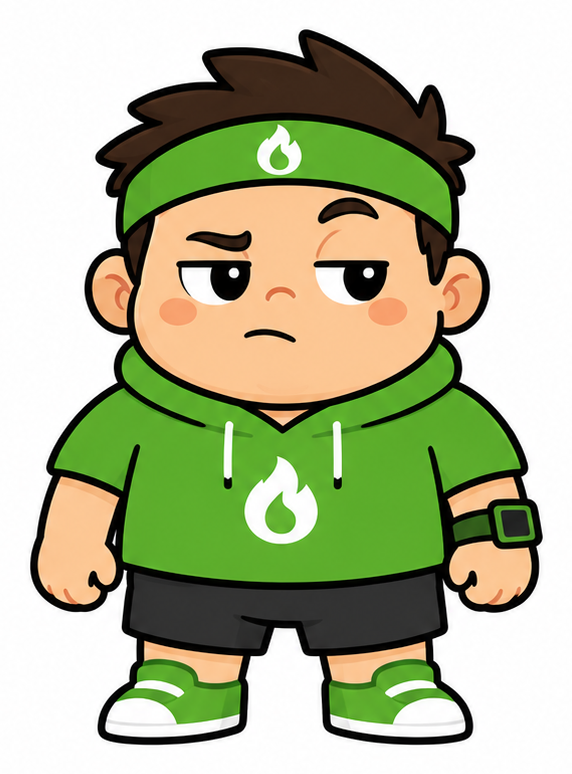
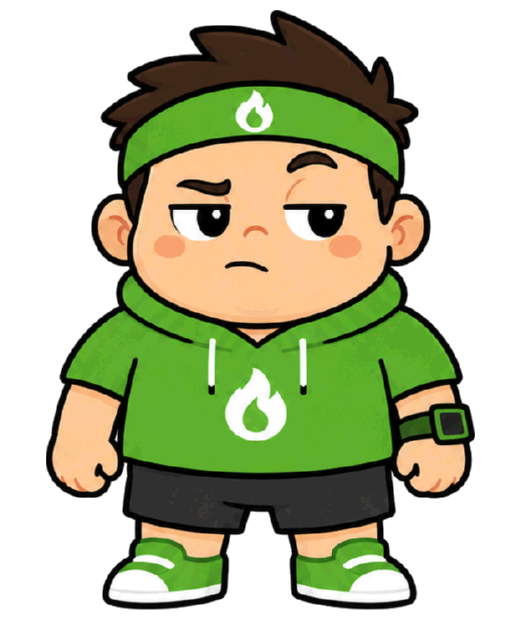
Dá vida ao Caloricio: arte transparente e animação de repouso
Arte (9,8MB -> 1,2MB no total):
- fundo branco removido por flood-fill das bordas, com matte suave pra não
  deixar halo no contorno antialiasado
- marca d'água da IA no canto eliminada (elevando o limiar de fundo chapado)
- fragmento do halter do personagem vizinho removido por análise de
  componentes conectados
- todas normalizadas em 520x620, mesma altura de personagem e pés alinhados,
  então trocar de fantasia não muda mais o tamanho

Animação (camadas de transform aninhadas, uma por movimento):
- respiração e flutuação com períodos fora de fase (3,7s x 3s) pra não ficar
  mecânico, mais uma leve inclinação lateral
- sombra elíptica que encolhe e clareia quando ele sobe
- squash-and-stretch ao trocar de fantasia
- pulinho espontâneo em intervalo aleatório, pausado com a aba oculta
- tudo desligado em prefers-reduced-motion

Changed region(s): [[0.0308, 0.0, 0.9538, 1.0], [0.4308, 0.3677, 0.5231, 0.4597], [0.4923, 0.521, 0.5231, 0.5516]]

diff --git a/style.css b/style.css
@@ -41,31 +41,113 @@ body {
 /* ---------- Mascote ---------- */
 
 .mascote {
-  margin: 0 auto 20px;
-  width: 220px;
+  margin: 0 auto 16px;
+  width: 230px;
   text-align: center;
+}
+
+.mascote-palco {
+  position: relative;
+  /* espaço pra sombra viver abaixo dos pés sem empurrar o layout */
+  padding-bottom: 14px;
 }
 
 .mascote img {
   width: 100%;
   height: auto;
   display: block;
-  background: #ffffff;
-  border-radius: 20px;
-  box-shadow: 0 6px 18px rgba(0, 0, 0, 0.08);
-  padding: 10px;
 }
 
-/* pulinho ao trocar de estado (climax emocional do reveal) */
-@keyframes pulo {
-  0% { transform: translateY(0); }
-  35% { transform: translateY(-10px) rotate(-2deg); }
-  70% { transform: translateY(0) rotate(1deg); }
-  100% { transform: translateY(0); }
+/* --- Vida em repouso ---
+   Períodos propositalmente diferentes (3s x 3,7s) pra respiração e flutuação
+   saírem de fase e o movimento não ficar mecânico. */
+@keyframes flutuar {
+  0%, 100% { transform: translateY(0) rotate(0deg); }
+  25% { transform: translateY(-4px) rotate(-0.7deg); }
+  50% { transform: translateY(-7px) rotate(0deg); }
+  75% { transform: translateY(-4px) rotate(0.7deg); }
 }
 
-.mascote.reagindo img {
-  animation: pulo 0.45s ease;
+@keyframes respirar {
+  0%, 100% { transform: scale(1, 1); }
+  50% { transform: scale(0.985, 1.018); }
+}
+
+@keyframes sombra-viva {
+  0%, 100% { transform: scaleX(1); opacity: 0.17; }
+  50% { transform: scaleX(0.86); opacity: 0.1; }
+}
+
+.mascote-flutua {
+  animation: flutuar 3s ease-in-out infinite;
+  transform-origin: 50% 100%;
+}
+
+/* Pulinho espontâneo em intervalo aleatório (app.js agenda): quebra a sensação
+   de loop mecânico, que é o que mais entrega "isso é só uma imagem girando". */
+@keyframes pulinho-idle {
+  0% { transform: translateY(0) scale(1, 1); }
+  18% { transform: translateY(0) scale(1.07, 0.93); }
+  45% { transform: translateY(-22px) scale(0.95, 1.06); }
+  70% { transform: translateY(0) scale(1.05, 0.95); }
+  85% { transform: translateY(-5px) scale(1, 1); }
+  100% { transform: translateY(0) scale(1, 1); }
+}
+
+.mascote-idle {
+  transform-origin: 50% 100%;
+}
+
+.mascote.pulando .mascote-idle {
+  animation: pulinho-idle 0.85s cubic-bezier(0.3, 1.2, 0.5, 1);
+}
+
+.mascote img {
+  transform-origin: 50% 100%;
+  animation: respirar 3.7s ease-in-out infinite;
+}
+
+.mascote-sombra {
+  position: absolute;
+  left: 50%;
+  bottom: 6px;
+  width: 44%;
+  height: 12px;
+  margin-left: -22%;
+  border-radius: 50%;
+  background: #1f2937;
+  opacity: 0.17;
+  z-index: -1;
+  animation: sombra-viva 3s ease-in-out infinite;
+}
+
+/* --- Reação à troca de estado: agacha, salta e assenta --- */
+@keyframes reagir {
+  0% { transform: scale(1, 1) translateY(0); }
+  22% { transform: scale(1.1, 0.9) translateY(0); }
+  50% { transform: scale(0.93, 1.09) translateY(-13px); }
+  72% { transform: scale(1.04, 0.97) translateY(0); }
+  88% { transform: scale(0.99, 1.01) translateY(-2px); }
+  100% { transform: scale(1, 1) translateY(0); }
+}
+
+.mascote-reacao {
+  transform-origin: 50% 100%;
+}
+
+.mascote.reagindo .mascote-reacao {
+  animation: reagir 0.6s cubic-bezier(0.34, 1.3, 0.64, 1);
+}
+
+/* Quem pediu menos movimento no sistema não recebe nenhuma das animações. */
+@media (prefers-reduced-motion: reduce) {
+  .mascote-flutua,
+  .mascote img,
+  .mascote-sombra,
+  .mascote.reagindo .mascote-reacao,
+  .mascote.pulando .mascote-idle {
+    animation: none;
+  }
 }
 
 .legenda {

diff --git a/app.js b/app.js
@@ -38,17 +38,21 @@ function exercicioSelecionado() {
   return MET_TABLE.find((i) => i.nome === selectExercicio.value) ?? null;
 }
 
+let fimDaReacao = null;
+
 function aplicarMascote(estado) {
   const mudou = mascoteImg.getAttribute('src') !== estado.imagem;
   mascoteImg.src = estado.imagem;
   mascoteImg.alt = estado.descricao;
   legenda.textContent = estado.legenda;
-  if (mudou) {
-    mascote.classList.remove('reagindo');
-    // reinicia a animação de pulo mesmo em trocas consecutivas
-    void mascote.offsetWidth;
-    mascote.classList.add('reagindo');
-  }
+  if (!mudou) return;
+  mascote.classList.remove('reagindo', 'pulando');
+  // reinicia a animação mesmo em trocas consecutivas
+  void mascote.offsetWidth;
+  mascote.classList.add('reagindo');
+  // a classe precisa sair no fim, senão o pulinho espontâneo fica bloqueado
+  clearTimeout(fimDaReacao);
+  fimDaReacao = setTimeout(() => mascote.classList.remove('reagindo'), 650);
 }
 
 function mostrarErros(erros) {
@@ -124,5 +128,21 @@ form.addEventListener('submit', (e) => {
   });
 });
 
+// Pulinho espontâneo em intervalo irregular. Só roda com a aba visível e
+// respeita quem pediu menos movimento no sistema.
+const menosMovimento = window.matchMedia('(prefers-reduced-motion: reduce)');
+
+function agendarPulinho() {
+  const espera = 6000 + Math.random() * 7000;
+  setTimeout(() => {
+    if (!document.hidden && !menosMovimento.matches && !mascote.classList.contains('reagindo')) {
+      mascote.classList.add('pulando');
+      setTimeout(() => mascote.classList.remove('pulando'), 900);
+    }
+    agendarPulinho();
+  }, espera);
+}
+
 montarDropdown();
 mascoteImg.alt = DESCRICOES_VISUAL.neutro;
+agendarPulinho();

diff --git a/index.html b/index.html
@@ -22,7 +22,22 @@
       (normal/desconfiado); categorias sem fantasia usam o visual genérico.
     -->
     <figure class="mascote" id="mascote" data-visual="neutro" data-desconfiado="false">
-      <img id="mascote-img" src="img/caloricio-gpt-normal.png" alt="Caloricio te esperando começar" width="360" height="502" />
+      <!--
+        Três camadas de transform aninhadas, cada uma com sua animação, porque
+        um mesmo elemento não consegue rodar transforms independentes:
+        reacao (squash on troca de estado) > flutua (sobe/desce) > img (respira).
+      -->
+      <div class="mascote-palco">
+        <div class="mascote-idle">
+          <div class="mascote-reacao">
+            <div class="mascote-flutua">
+              <img id="mascote-img" src="img/caloricio-gpt-normal.png"
+                   alt="Caloricio te esperando começar" width="520" height="620" />
+            </div>
+          </div>
+        </div>
+        <div class="mascote-sombra" aria-hidden="true"></div>
+      </div>
       <figcaption class="legenda" id="legenda" aria-live="polite"></figcaption>
     </figure>
 
